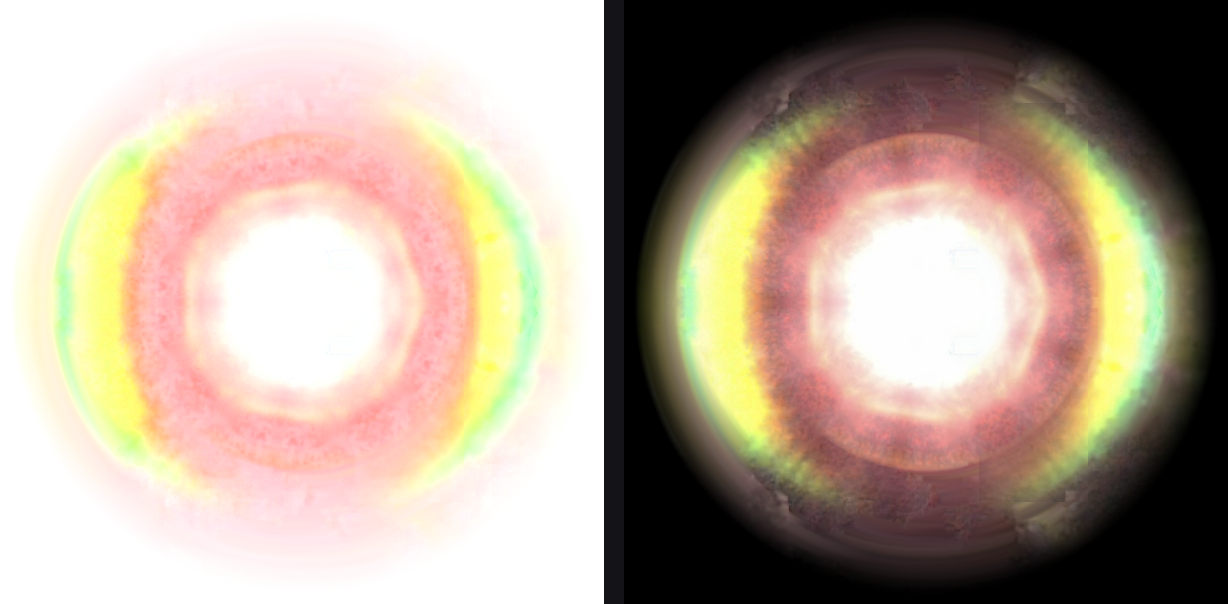
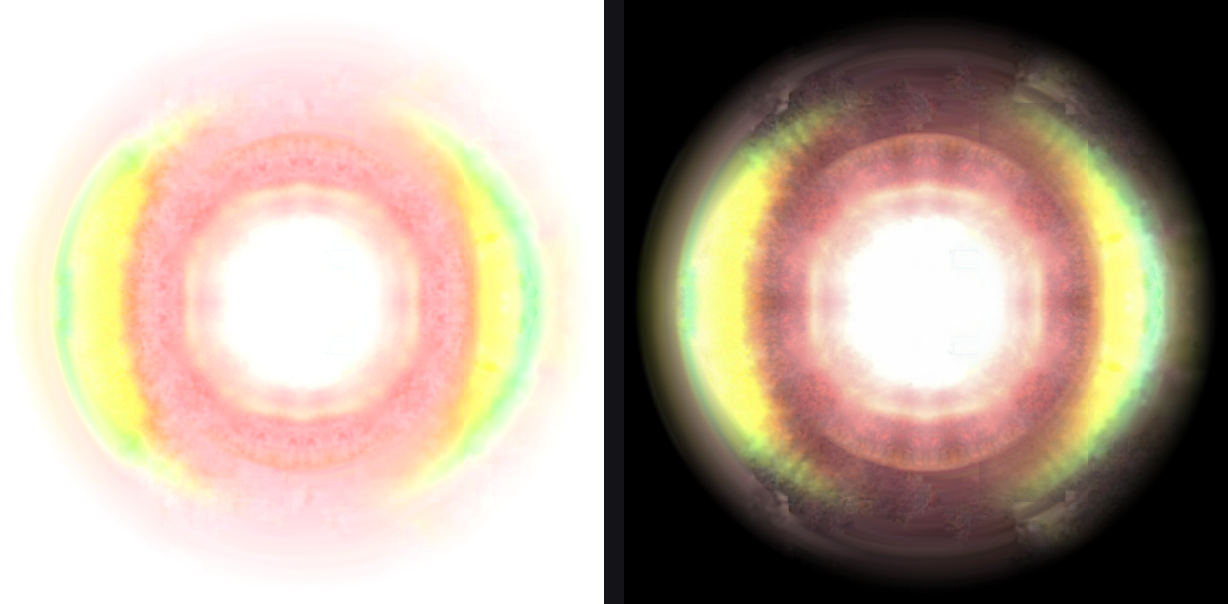
Efekt 10 küre (pembeli): halkanın sağ yarısındaki iz giderildi (sol yarının aynası)
Claude-Session: https://claude.ai/code/session_01E9c1WiJsMc9gXSJZ9D4z6g

diff --git a/arayuz/araclar/efekt10/kure_halka_kopyala.py b/arayuz/araclar/efekt10/kure_halka_kopyala.py
@@ -20,6 +20,10 @@ K_=np.stack([ndimage.map_coordinates(L[...,c],[sy,sx],order=1) for c in range(3)
 w=np.clip((R-(R0-8))/8,0,1)*np.clip(((R1+8)-R)/8,0,1)
 w=w[...,None]
 T=L*(1-w)+K_*w
+# sag yari iz birakiyordu (kullanici isaretledi): halkanin SOL yarisi saga yatay ayna olarak yansitilir; ust-alt ortada 14 px yumusak gecis
+mxr=np.clip(np.round(2*cx-xx).astype(int),0,W-1)
+sag=np.clip((xx-cx+7)/14,0,1)[...,None]*w
+T=T*(1-sag)+T[yy,mxr]*sag
 al=T.max(2); rgb=np.where(al[...,None]>1e-4,T/np.maximum(al,1e-4)[...,None],0)
 out=os.path.join(K,"kure_ref_saydam_pembeli_halka.png")
 Image.fromarray(np.dstack([(rgb*255).round(),(al*255).round()]).astype(np.uint8)).save(out)
